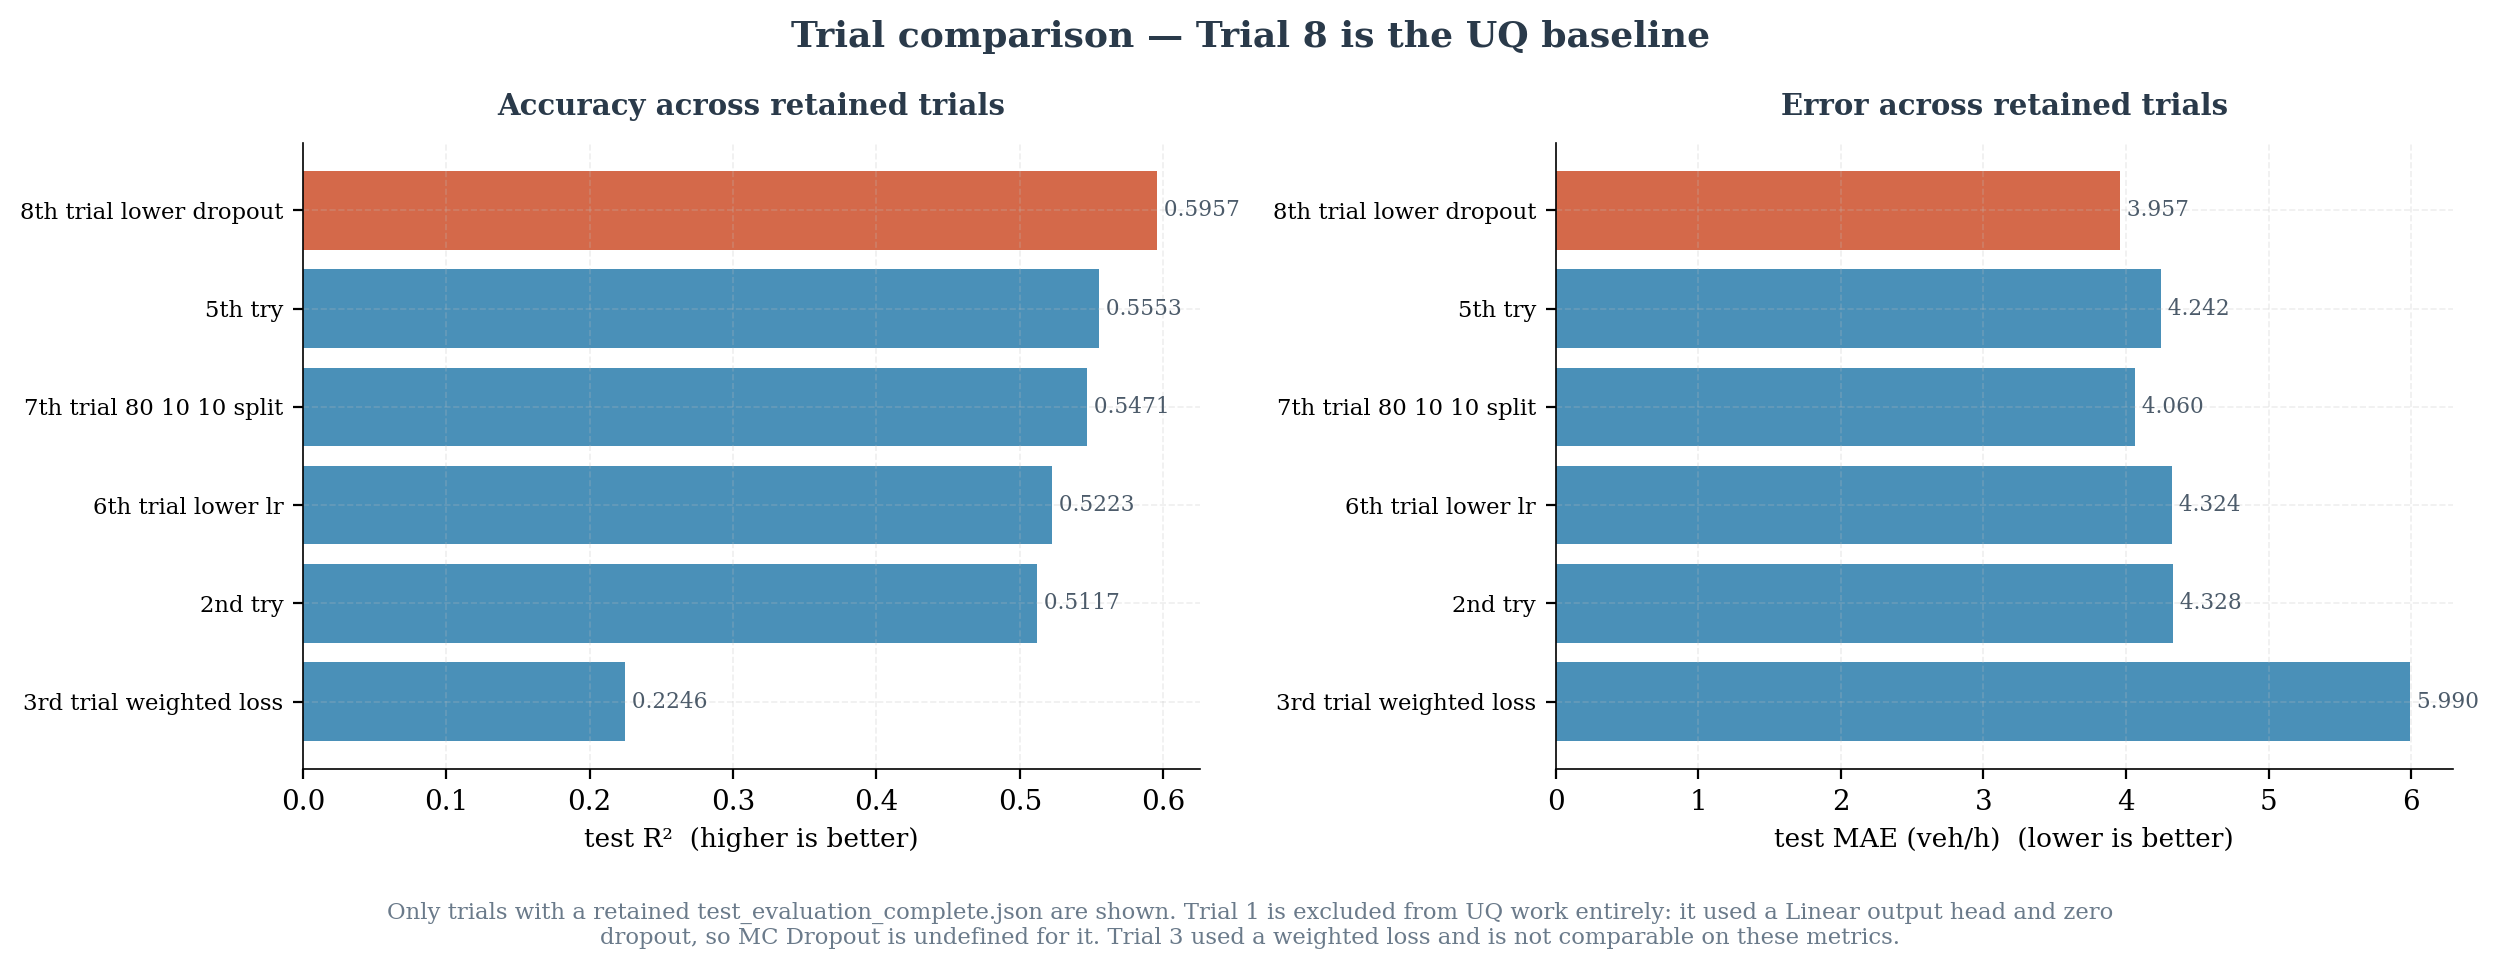
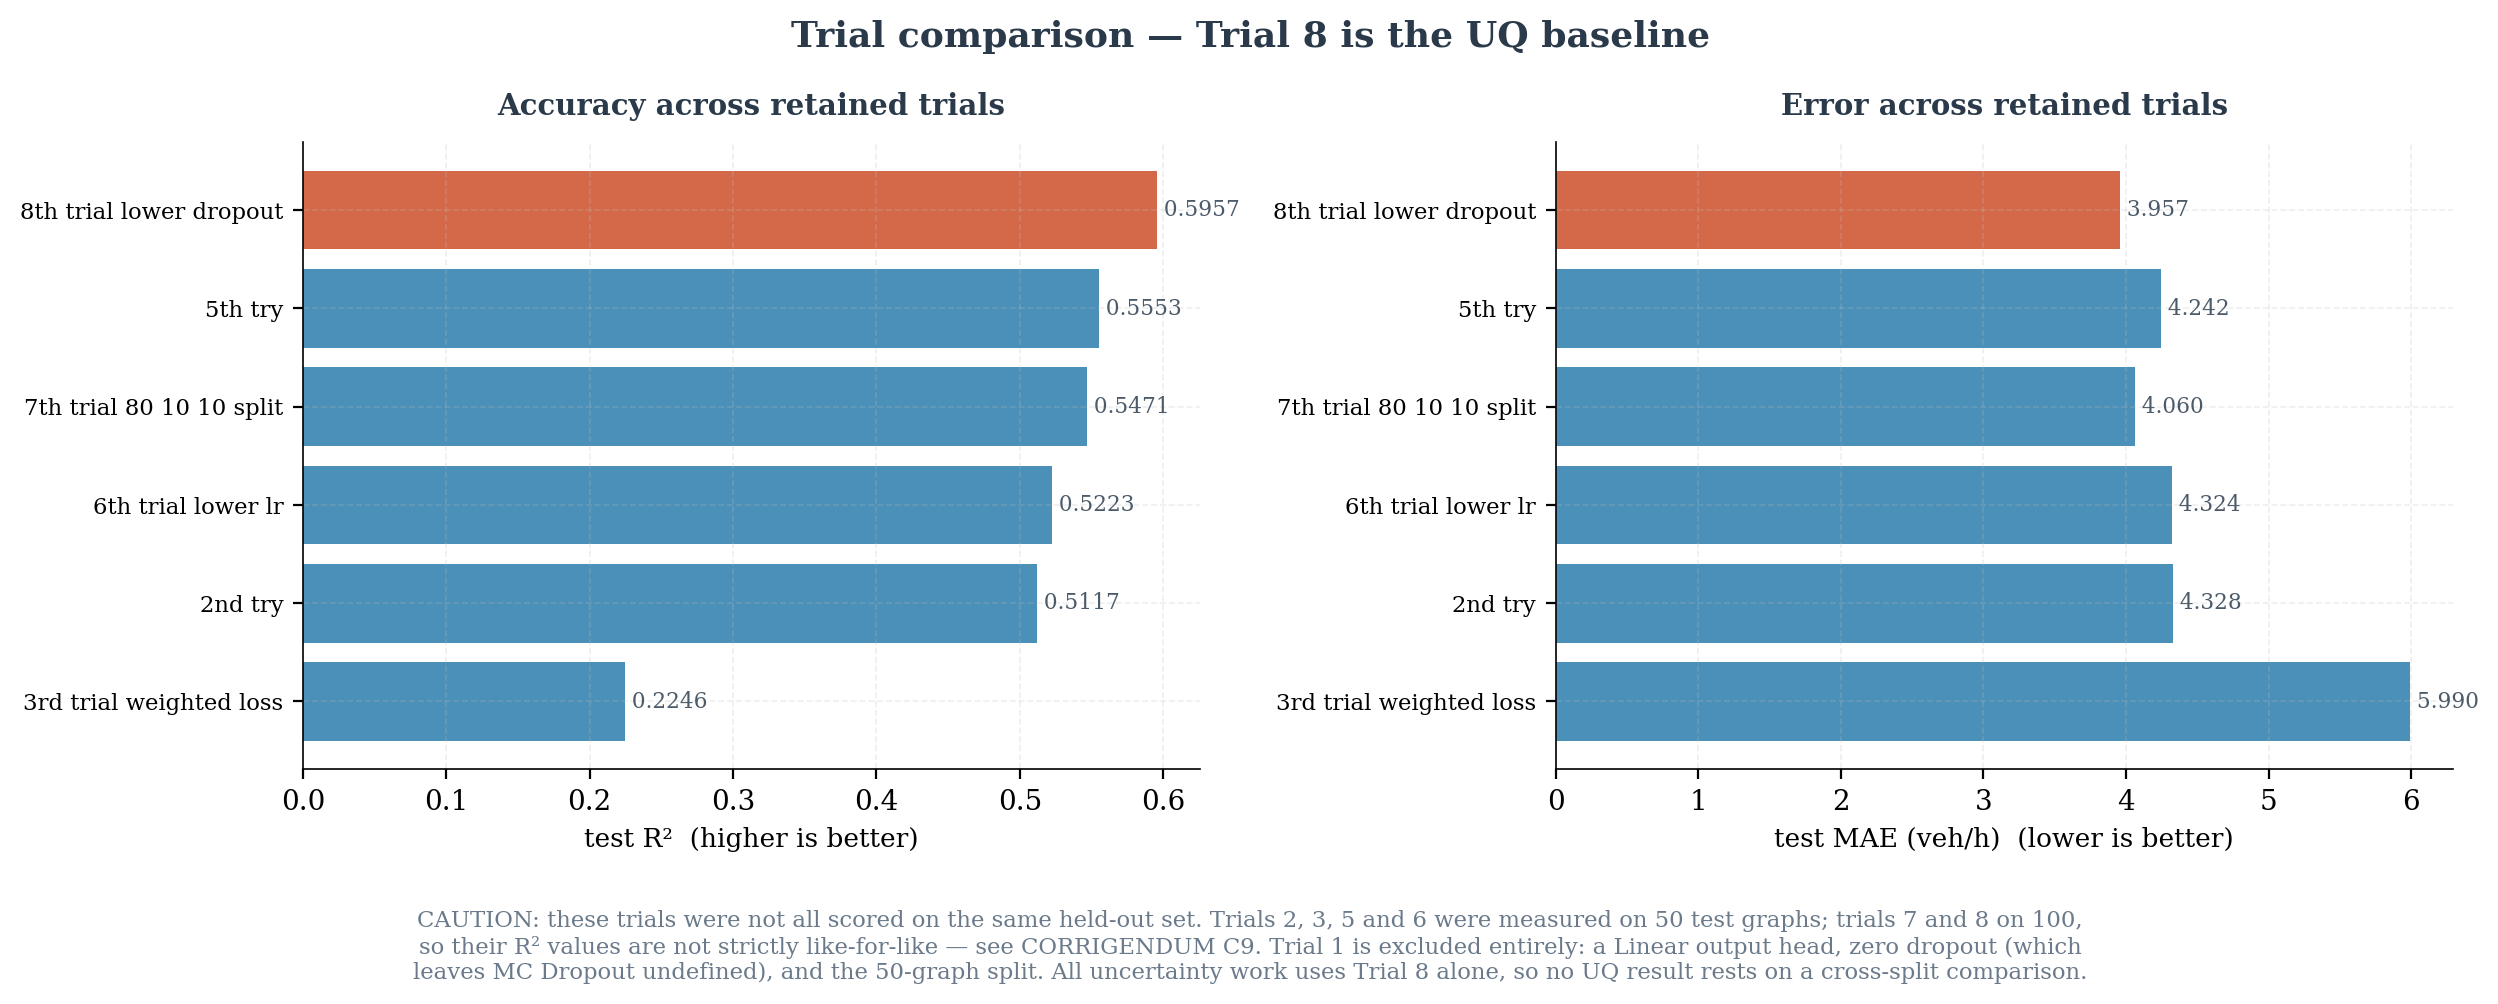
docs: record that trials used two different test splits (C9)
Test-set R2 has been compared across trials as though every trial were scored on
the same held-out data. It was not. The split changed size at Trial 7:

  T1-T6                     50 graphs   1,581,750 nodes
  T7-T11, deep ensembles   100 graphs   3,163,500 nodes

The counts come from the trials' own result files, and T7's directory name
records the change. The trial-comparison figure plotted both groups together, so
its caption now carries the caveat.

No uncertainty result depends on this: all UQ work is built on Trial 8 alone, and
every number verify_headline_results.py asserts is a Trial 7 or Trial 8 figure on
the 100-graph split.

This also gives a second independent reason to exclude Trial 1 from comparisons,
alongside its zero dropout and its different output head.

diff --git a/scripts/figure_generation/generate_results_figures.py b/scripts/figure_generation/generate_results_figures.py
@@ -353,9 +353,10 @@ def fig_trials():
 
     fig.suptitle("Trial comparison — Trial 8 is the UQ baseline",
                  fontsize=13, fontweight="600", color=COLORS["dgray"])
-    fig.text(0.5, -0.07,
-             "Only trials with a retained test_evaluation_complete.json are shown. Trial 1 is excluded from UQ work entirely: it used a Linear output "
-             "head and zero\ndropout, so MC Dropout is undefined for it. Trial 3 used a weighted loss and is not comparable on these metrics.",
+    fig.text(0.5, -0.11,
+             "CAUTION: these trials were not all scored on the same held-out set. Trials 2, 3, 5 and 6 were measured on 50 test graphs; trials 7 and 8 on 100,\n"
+             "so their R² values are not strictly like-for-like — see CORRIGENDUM C9. Trial 1 is excluded entirely: a Linear output head, zero dropout (which\n"
+             "leaves MC Dropout undefined), and the 50-graph split. All uncertainty work uses Trial 8 alone, so no UQ result rests on a cross-split comparison.",
              ha="center", fontsize=8.2, color=COLORS["mgray"])
     fig.tight_layout()
     save(fig, "05_trial_comparison", "where Trial 8 sits among the trials")

diff --git a/docs/CORRIGENDUM.md b/docs/CORRIGENDUM.md
@@ -227,6 +227,44 @@ verified values with a reference to this entry, and
 `scripts/data_exploration/` regenerates every number here from the published
 corpus.
 
+## C9: Trials Were Not All Scored on the Same Test Split
+
+Found in September 2026 while recovering architecture and metrics from all sixteen
+retained checkpoints.
+
+**The issue.** Test-set R² has been compared across trials as though every trial were
+measured on the same held-out data. It was not. The test split changed size at Trial 7:
+
+| Trials | Test graphs | Nodes scored |
+|---|---:|---:|
+| T1 – T6 | **50** | 1,581,750 |
+| T7 – T11, deep ensembles | **100** | 3,163,500 |
+
+The node counts come from the trials' own result files (`num_test_samples`, or
+`statistics.n_samples`), and 1,581,750 = 50 × 31,635 exactly, as 3,163,500 = 100 × 31,635.
+Trial 7's directory name records the change: `point_net_transf_gat_7th_trial_80_10_10_split`.
+
+**Impact.** Any ranking that places T1–T6 alongside T7–T8 on R² is not a like-for-like
+comparison, because the two groups were evaluated on differently sized held-out sets. This
+affects the trial-comparison figure at `docs/figures/results/05_trial_comparison.png`,
+which plots T2, T3, T5 and T6 next to T7 and T8, and any prose that reads a ranking off it.
+
+**What does not change.** Every individual trial's own metrics remain correct for the split
+it was measured on. Trial 8 remains the best of the trials sharing the 100-graph split, and
+all uncertainty work is built on Trial 8 alone, so no UQ result depends on a cross-split
+comparison. The headline numbers asserted by `scripts/verify_headline_results.py` are all
+Trial 8 or Trial 7 figures on the 100-graph split and are unaffected.
+
+**Related.** This gives a second, independent reason to keep Trial 1 out of comparisons.
+It was already excluded from uncertainty work because it used zero dropout, which leaves
+MC Dropout undefined. Checkpoint forensics now add two more differences: it carries a
+`read_out_node_predictions` Linear head instead of `gat_final` (1,416,833 parameters
+against 1,416,835), and it was scored on the 50-graph split. Its R² of 0.786 is therefore
+not comparable with Trial 8's 0.596 on any axis.
+
+**Reproduction.** `python scripts/data_exploration/explore_checkpoints.py` prints the
+inventory and emits the split warning directly from the artifacts.
+
 ## Provenance
 
 - Immutable submitted artifact baseline: canonical commit `4b95a3d8aca5929bb88b84bb7f7ae86c48e2f428`.
